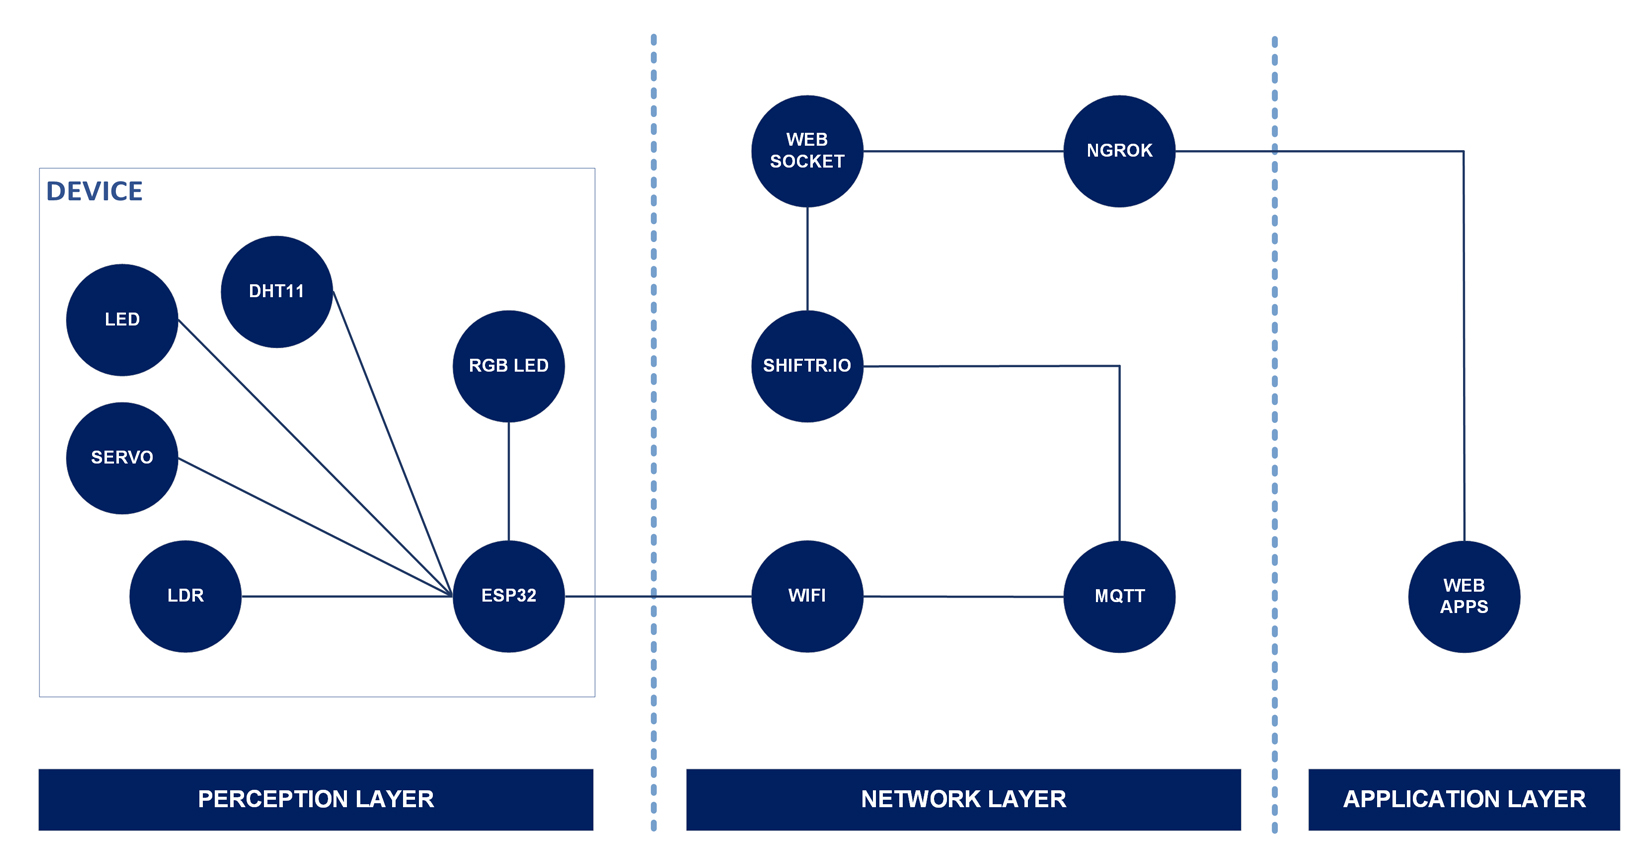
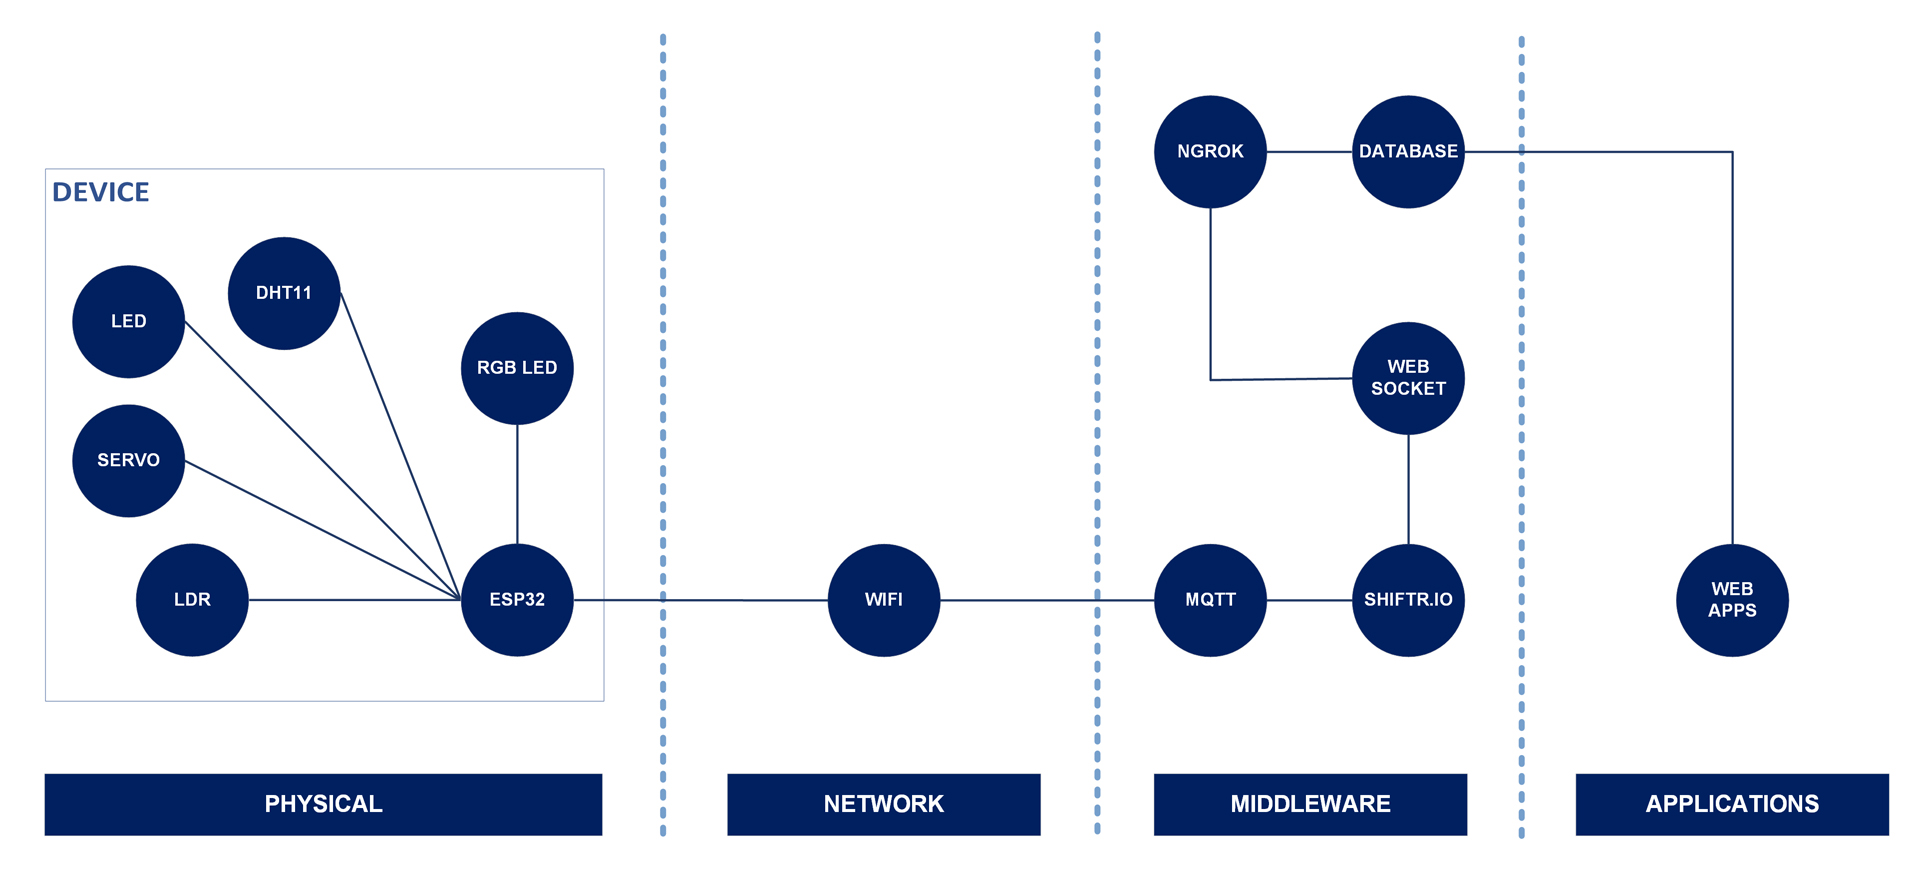
Update: 25/12/2024

diff --git a/BACA.md b/BACA.md
@@ -19,7 +19,7 @@ Proyek berbasis Web ini dibuat untuk menangani sejumlah traffic pengguna dan dev
 | Driver | CP210X USB Driver |
 | Platform IoT | Shiftr.io |
 | Protokol Komunikasi | • WebSocket Secure (WSS)<br>• Message Queuing Telemetry Transport (MQTT)<br>• Simple Mail Transfer Protocol (SMTP) |
-| Arsitektur IoT | 3 Lapisan |
+| Arsitektur IoT | 4 Lapisan |
 | Kerangka Kerja | AdminLTE v3.2.0 |
 | Pustaka Web | • MQTT.js<br>• PHPMailer |
 | Pustaka Arduino | • WiFi (bawaan)<br>• MQTT<br>• ESP32Servo<br>• DHT_sensor_library_for_ESPx<br>• Nusabot Simple Timer |

diff --git a/README.md b/README.md
@@ -19,7 +19,7 @@ This Web-based project was created to handle a number of user traffic and IoT de
 | Driver | CP210X USB Driver |
 | IoT Platform | Shiftr.io |
 | Communications Protocol | • WebSocket Secure (WSS)<br>• Message Queuing Telemetry Transport (MQTT)<br>• Simple Mail Transfer Protocol (SMTP) |
-| IoT Architecture | 3 Layer |
+| IoT Architecture | 4 Layer |
 | Framework | AdminLTE v3.2.0 |
 | Web Library | • MQTT.js<br>• PHPMailer |
 | Arduino Library | • WiFi (default)<br>• MQTT<br>• ESP32Servo<br>• DHT_sensor_library_for_ESPx<br>• Nusabot Simple Timer |
